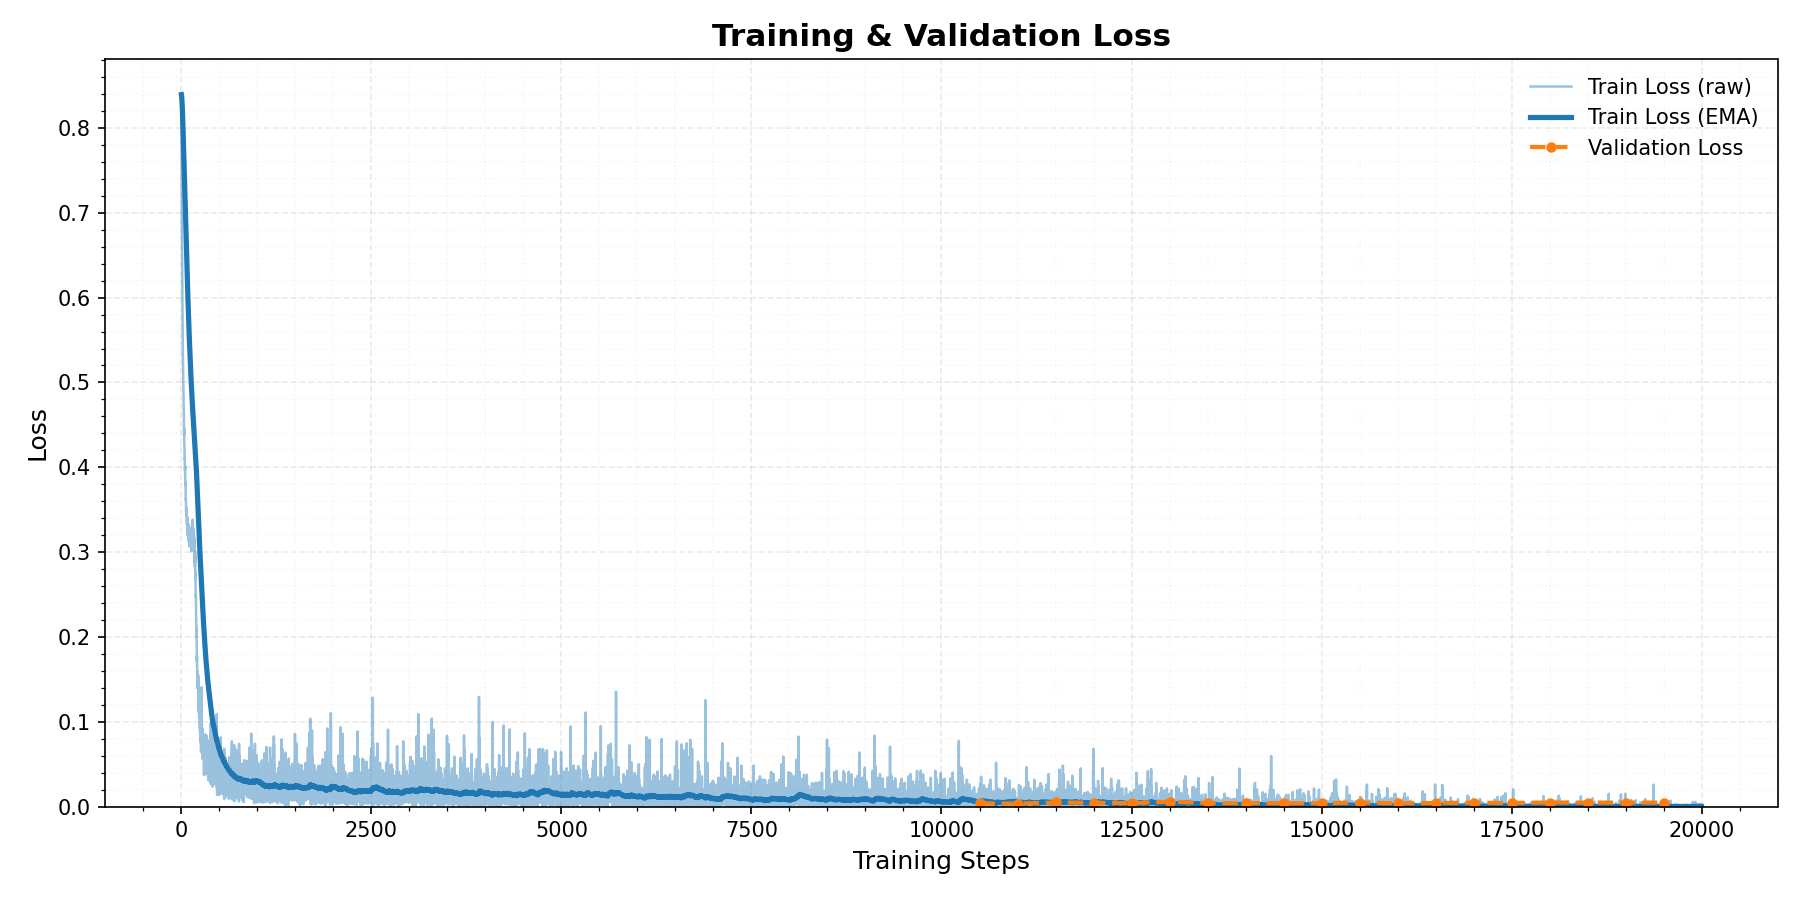
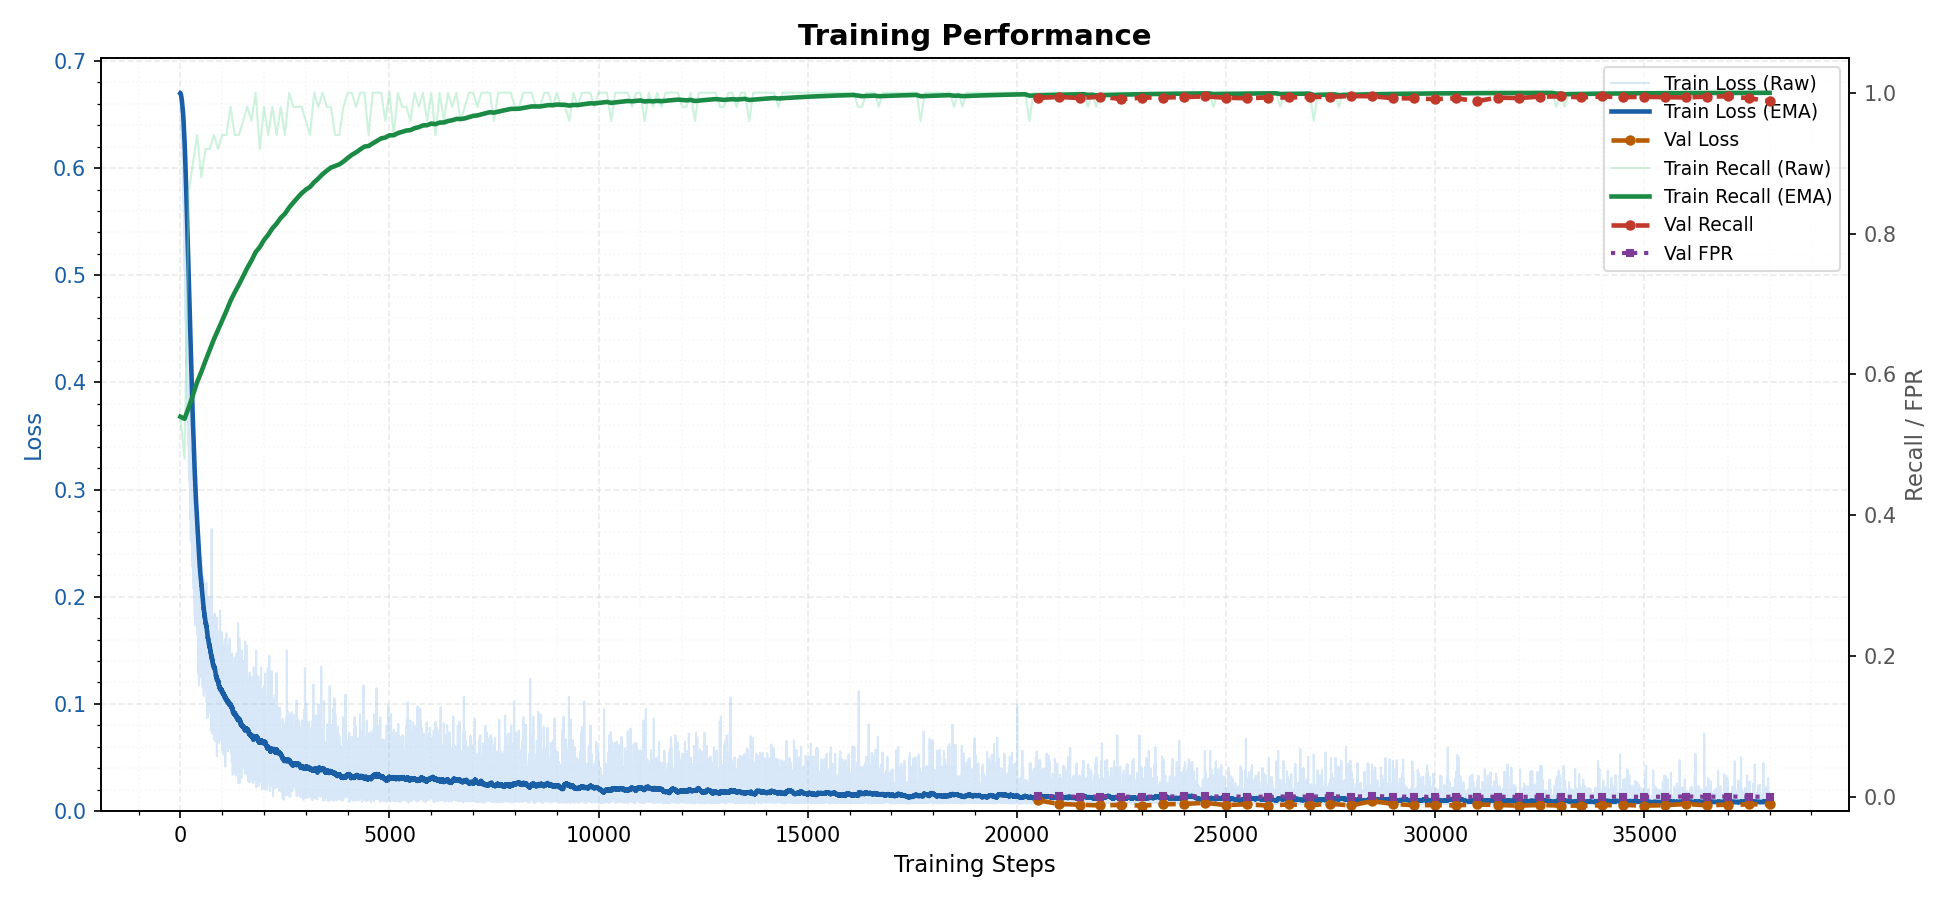
tensor error fix & doc update

diff --git a/nanowakeword/trainer.py b/nanowakeword/trainer.py
@@ -94,8 +94,27 @@ def deep_merge(d1, d2):
 def collate_fn_with_indices(batch):
     """
     Custom collate function that handles features, labels, and indices.
+    Pads or truncates all features to the most common frame length in the
+    batch, preventing crashes when .npy files have slightly different shapes.
     """
-    features = torch.stack([item[0] for item in batch])
+    all_features = [item[0] for item in batch]
+
+    # Find the most common frame length and use it as the target
+    lengths = [f.shape[0] for f in all_features]
+    target_len = max(set(lengths), key=lengths.count)
+
+    normalized = []
+    for f in all_features:
+        curr_len = f.shape[0]
+        if curr_len > target_len:
+            normalized.append(f[:target_len])           # truncate
+        elif curr_len < target_len:
+            pad = torch.zeros(target_len - curr_len, f.shape[1], dtype=f.dtype)
+            normalized.append(torch.cat([f, pad], dim=0))  # pad with zeros
+        else:
+            normalized.append(f)
+
+    features = torch.stack(normalized)
     labels = torch.stack([item[1] for item in batch])
     indices = torch.tensor([item[2] for item in batch], dtype=torch.long)
     return features, labels, indices

diff --git a/README.md b/README.md
@@ -251,22 +251,12 @@ Below is a typical training performance graph for a model trained on a standard 
 
 *   **Stable and Efficient Learning:** The "Training Loss (Stable/EMA)" curve demonstrates the model's rapid and stable convergence. The loss consistently decreases and flattens, indicating that the model has effectively learned the underlying patterns of the wake word without overfitting. The raw loss (light blue) shows the natural variance between batches, while the stable loss (dark blue) confirms a solid and reliable learning trend.
 
-*   **Exceptional Confidence and Separation:** The final report card is a testament to the model's quality. With an **Average Stable Loss of just 0.2065**, the model is highly accurate. More importantly, the high margin between the positive and negative confidence scores highlights its decision-making power:
-    *   **Avg. Positive Confidence (Logit): `5.448`** (Extremely confident when the wake word is spoken)
-    *   **Avg. Negative Confidence (Logit): `-5.890`** (Equally confident in rejecting incorrect words and noise)
+*   **Exceptional Confidence and Separation:** The final report card is a testament to the model's quality. With an **Average Stable Loss of just 0.0086**, the model is highly accurate. More importantly, the high margin between the positive and negative confidence scores highlights its decision-making power:
+    *   **Avg. Positive Confidence (Logit): `5.447`** (Extremely confident when the wake word is spoken)
+    *   **Avg. Negative Confidence (Logit): `-5.721`** (Equally confident in rejecting incorrect words and noise)
     This large separation is crucial for minimizing false activations and ensuring the model responds only when it should.
 
 *   **Extremely Low False Positive Rate:** While real-world performance depends on the environment, our new training methodology, which heavily penalizes misclassifications, produces models with an exceptionally low rate of false activations. A well-trained model often achieves **less than one false positive every 16-28 hours** on average, making it ideal for a seamless user experience.
-
-### The Role of the Intelligent Configuration Engine
-
-The outstanding performance shown above is a direct result of the data-driven decisions made automatically by the Intelligent Configuration Engine. For the dataset used in this example, the engine made the following critical choices:
-
-*   **Adaptive Model Complexity:** It analyzed the 2.6 hours of effective data volume (after augmentation) and determined that an **3 blocks and a layer size of 256** would be optimal. This provided enough capacity to learn complex temporal patterns without being excessive for the dataset size.
-*   **Data-Driven Augmentation Strategy:** Based on the high amount of noise and reverberation data provided (`H_noise: 5.06`, `N_rir: 1668`), it set aggressive augmentation probabilities (`RIR: 0.8`, `background_noise_probability: 0.9`) to ensure the model would be robust in challenging real-world environments.
-*   **Balanced Batch Composition:** It intelligently adjusted the training batch to include **27% `pure_noise`**. This decision was based on its analysis of the user-provided data, allowing the model to focus more on differentiating the wake word from both ambient noise and other human speech (`negative_speech: 44%`).
-
-This intelligent, automated, and data-centric approach is the core of Nanowakeword, enabling it to consistently produce robust, efficient, and highly reliable wake-word detection models without requiring manual tuning from the user.
 
 ## Using Your Trained Model (Inference)
 